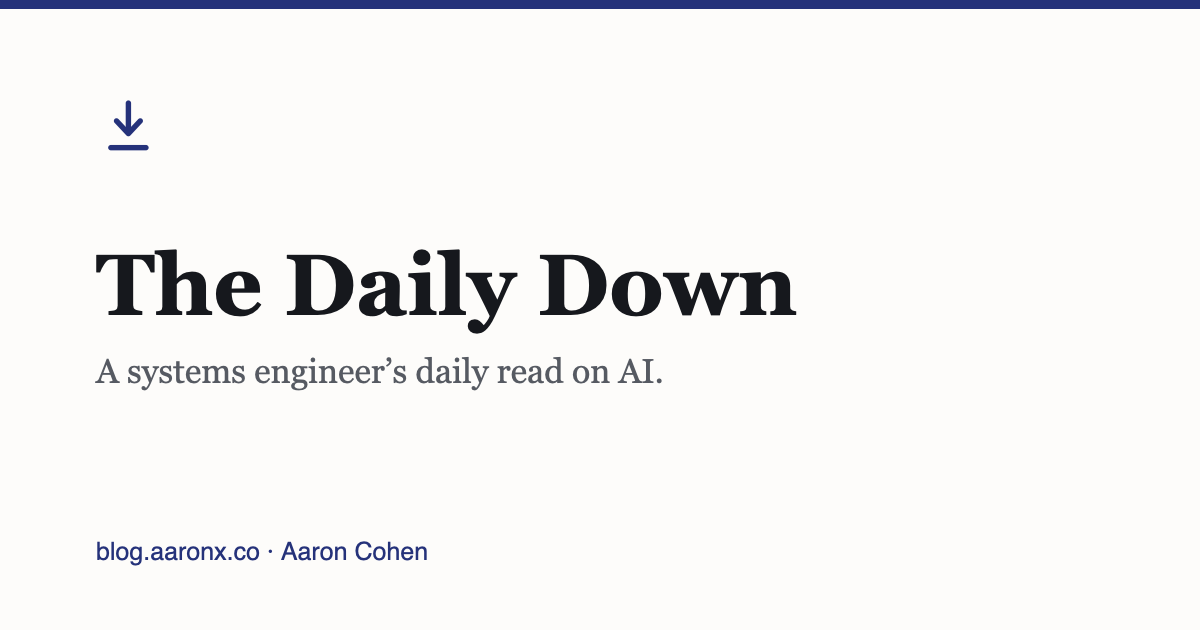
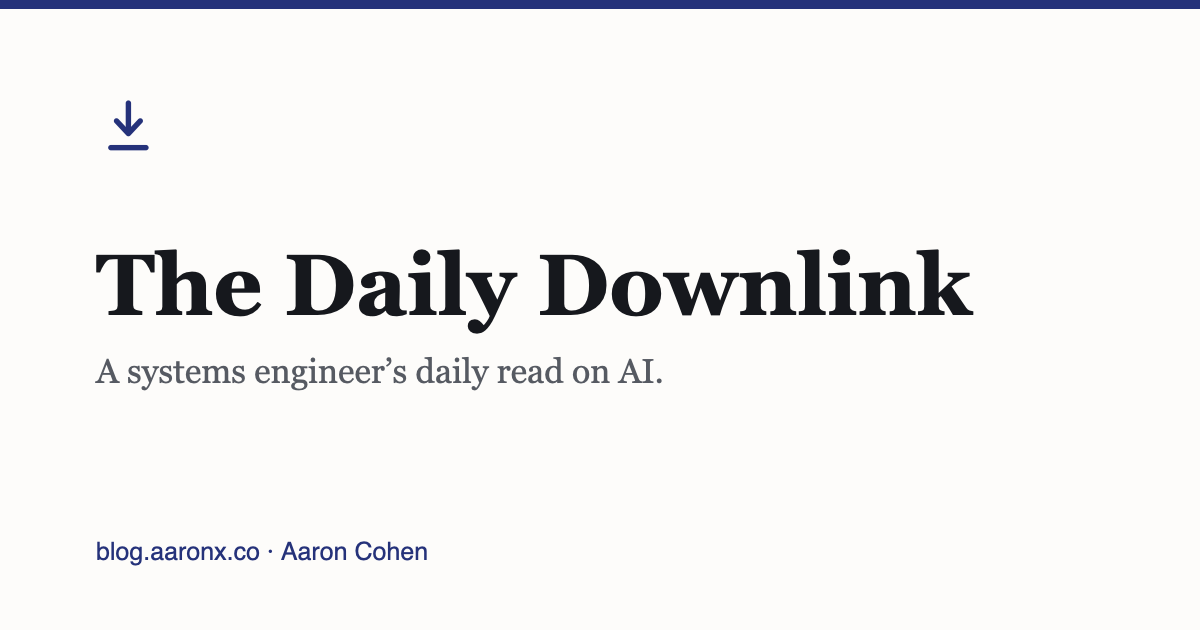
Rebrand to "The Daily Downlink"
Full name across site title, wordmark, feed, SEO/OG metadata, the
sample post, and the publisher contract.

- Renamed the sample post so filename, slug and URL stay consistent:
  /2026/08/19/welcome-to-the-daily-down/ -> .../welcome-to-the-daily-downlink/
- Rewrote the name-origin paragraph in About: the old line was a
  density-altitude joke that only worked for "Down". It now reads on
  spacecraft downlink, which also gives the arrow-to-bar mark its meaning.
- Regenerated the OG card; the longer wordmark still clears the margin.

The repo name now matches the brand. CNAME, domain and URL scheme unchanged.

Changed region(s): [[0.6475, 0.3921, 0.8325, 0.5127]]

diff --git a/_includes/header.html b/_includes/header.html
@@ -8,7 +8,7 @@
           <path d="M5.5 19.5 H18.5"/>
         </g>
       </svg>
-      <span class="wordmark-text">The Daily Down</span>
+      <span class="wordmark-text">The Daily Downlink</span>
     </a>
     <nav class="site-nav" aria-label="Primary">
       <a href="{{ '/about/' | relative_url }}">About</a>

diff --git a/assets/css/style.css b/assets/css/style.css
@@ -1,4 +1,4 @@
-/* The Daily Down -- vanilla CSS, no build step, no framework.
+/* The Daily Downlink -- vanilla CSS, no build step, no framework.
    One column, one measure, hairline rules. Set like a notebook, not a landing page. */
 
 /* ---------- tokens ---------- */

diff --git a/about.md b/about.md
@@ -2,14 +2,14 @@
 layout: page
 title: About
 permalink: /about/
-excerpt: "Who writes The Daily Down, and why it reads the way it does."
+excerpt: "Who writes The Daily Downlink, and why it reads the way it does."
 ---
 
 I'm Aaron Cohen. I build systems that have to keep working after the demo ends —
 which is a different discipline from making them work once, in a notebook, on a
 good day.
 
-*The Daily Down* is one column a day about AI: two or three stories worth your
+*The Daily Downlink* is one column a day about AI: two or three stories worth your
 attention, and my actual take on each. Not a summary feed. If I can't say
 something useful about why a story matters, it doesn't make the cut — it goes in
 The Rest, or it goes nowhere.
@@ -19,7 +19,10 @@ they get cited. Demos get separated from products. Claims about capability get
 weighed against what it takes to run the thing in production, at cost, under
 load, when it's wrong.
 
-The name is a small aviation joke. Density altitude goes up, performance goes
-down; the arrow in the wordmark points at the bar you actually have to clear.
+The name is borrowed from spacecraft operations. A downlink is the pass where
+everything the vehicle has been holding onto finally comes down to the ground
+station — one window, scheduled, and you work with what arrives in it. That's the
+shape I want this column to have. The arrow in the wordmark is the signal meeting
+the ground.
 
 More of my work lives at [aaronx.co](https://aaronx.co).

diff --git a/CLAUDE.md b/CLAUDE.md
@@ -1,4 +1,4 @@
-# The Daily Down — publishing contract
+# The Daily Downlink — publishing contract
 
 You are publishing to a live blog. Read this file before you touch anything.
 
@@ -37,8 +37,8 @@ _posts/YYYY-MM-DD-slug.md
 `permalink: /:year/:month/:day/:title/`, so:
 
 ```
-_posts/2026-08-19-welcome-to-the-daily-down.md
-  ->  https://blog.aaronx.co/2026/08/19/welcome-to-the-daily-down/
+_posts/2026-08-19-welcome-to-the-daily-downlink.md
+  ->  https://blog.aaronx.co/2026/08/19/welcome-to-the-daily-downlink/
 ```
 
 That mapping is the whole URL validation scheme. Get the filename right and the
@@ -89,7 +89,7 @@ things; use the real date.
 
 ## Post structure
 
-Copy [`_posts/2026-08-19-welcome-to-the-daily-down.md`](_posts/2026-08-19-welcome-to-the-daily-down.md)
+Copy [`_posts/2026-08-19-welcome-to-the-daily-downlink.md`](_posts/2026-08-19-welcome-to-the-daily-downlink.md)
 and replace its contents. That file is the canonical example — when this
 document and that file disagree, the file wins.
 

diff --git a/_posts/2026-08-19-welcome-to-the-daily-downlink.md b/_posts/2026-08-19-welcome-to-the-daily-downlink.md
@@ -1,5 +1,5 @@
 ---
-title: "Welcome to The Daily Down"
+title: "Welcome to The Daily Downlink"
 date: 2026-08-19
 excerpt: "What this column is, how it reads a story, and why a benchmark number is the start of the question rather than the end of it."
 categories: [commentary]
